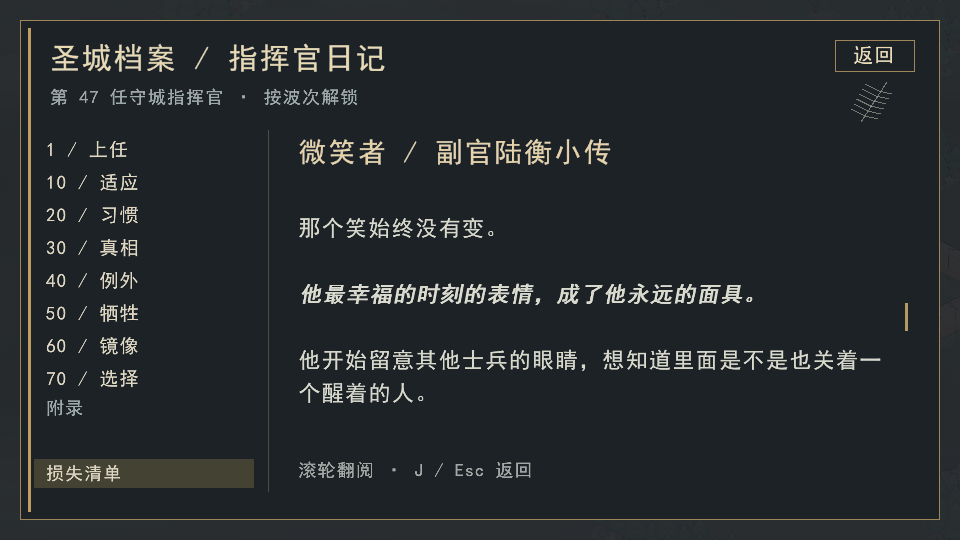
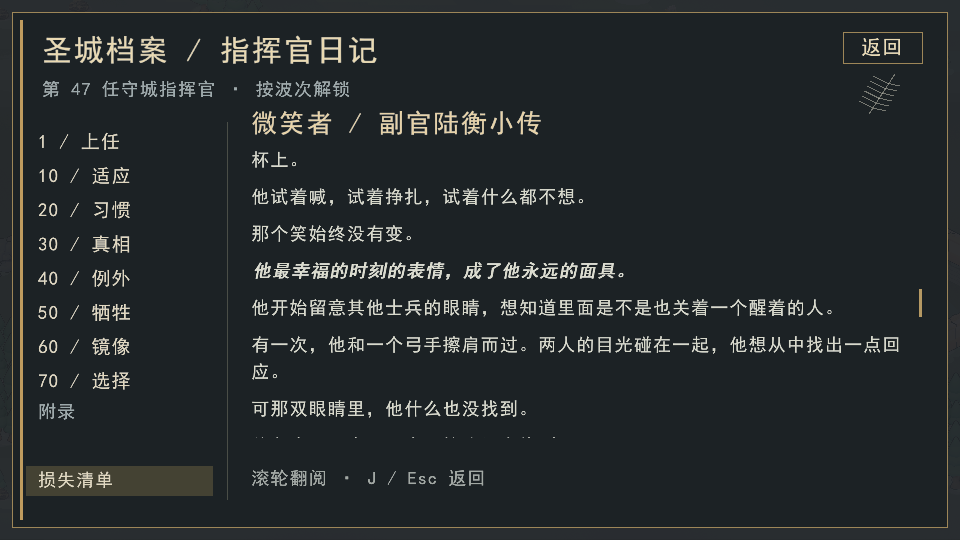
fix(chronicle): improve long-form reading and announce Easter eggs

diff --git a/render/src/main.cpp b/render/src/main.cpp
@@ -180,6 +180,7 @@ struct Options {
     int journal_appendix = 0;
     bool journal_feather_locked = false;
     bool journal_emphasis = false;
+    int appendix_notice = 0;
     bool journal_bottom = false;
     bool classic_visuals = false;
     bool mute = false;
@@ -199,6 +200,7 @@ void print_usage(const char* argv0) {
         "  --journal-ending <1..2> 日记截图预览结局；--journal-bottom 预览末尾\n"
         "  --journal-appendix <1..2> 附录截图；--journal-feather-locked 预览白羽线索\n"
         "  --journal-emphasis 定位微笑者强调段落（仅附录 2 截图）\n"
+        "  --appendix-notice <1..3> 彩蛋通知截图预览\n"
         "  --menu                停在主菜单（窗口模式下与默认相同；给截图用）\n"
         "  --screen <名>         先切到哪一屏再拍：main / help / paused / guide / developer。只给截图用\n"
         "  --map <路径>          地图文件。只给它（不给 --battle/--menu）= 地图查看器\n"
@@ -266,6 +268,10 @@ bool parse(const std::vector<std::string>& args, Options& out) {
             out.journal_feather_locked=true;
         } else if (a == "--journal-emphasis") {
             out.journal_emphasis=true;
+        } else if (a == "--appendix-notice") {
+            const std::string* v=next("--appendix-notice");
+            if(!v || (*v!="1" && *v!="2" && *v!="3")) return false;
+            out.appendix_notice=(*v)[0]-'0';
         } else if (a == "--journal-bottom") {
             out.journal_bottom=true;
         } else if (a == "--journal-ending") {
@@ -354,6 +360,7 @@ bool parse(const std::vector<std::string>& args, Options& out) {
     if(out.journal_appendix && (out.screenshot.empty() || out.journal_page>=0 || out.journal_ending)) return false;
     if(out.journal_feather_locked && out.journal_appendix!=1) return false;
     if(out.journal_emphasis && (out.journal_appendix!=2 || out.journal_bottom)) return false;
+    if(out.appendix_notice && out.screenshot.empty()) return false;
     if((out.journal_ending>0 || out.journal_bottom) && out.journal_page<0 && !out.journal_appendix) return false;
     if(out.journal_ending>0 && out.journal_page!=7) return false;
     // **这里不再判「哪个参数是必需的」。** 缺的路径由 `resolve_paths()` 用素材
@@ -1178,6 +1185,20 @@ int run_game(const Options& opt) {
     double order_until = 0.0;
     std::string notice;
     double notice_until = 0.0;
+    std::string appendix_notice;
+    double appendix_notice_until=0;
+    if(opt.appendix_notice) {
+        appendix_notice=game::kAppendixNotices[static_cast<std::size_t>(opt.appendix_notice-1)];
+        appendix_notice_until=GetTime()+10;
+    }
+    const auto draw_appendix_notice=[&](Vector2 viewport) {
+        if(appendix_notice.empty() || GetTime()>=appendix_notice_until) return;
+        const float width=font->measure(appendix_notice,20).x+32;
+        const float x=(viewport.x-width)/2,y=viewport.y-52;
+        DrawRectangleRec({x,y,width,36},Color{31,47,42,250});
+        DrawRectangleLinesEx({x,y,width,36},1,Color{181,153,99,255});
+        font->draw(appendix_notice,{x+16,y+7},20,Color{240,226,192,255});
+    };
     bool inspected_busy = false;
     // 侦查警报的跨帧状态（`draw_alert_banner`）：斥候回报/阵亡两条闪抓的是
     // **二元判定的边沿**（#139：`DemoBattle::scout_outcome()` 三态，逐波重置
@@ -1244,6 +1265,8 @@ int run_game(const Options& opt) {
     render::ChronicleView journal;
     game::JournalProgress progress=stored_journal;
     progress.highest_wave=stored_wave;
+    // Saving can observe a newly earned appendix before the next UI frame.
+    auto announced_appendices=progress.appendices;
     int& reached_wave=progress.highest_wave;
     journal.appendices=progress.appendices;
     if(opt.journal_page>=0) { journal.preview(opt.journal_page,opt.journal_ending,opt.journal_bottom); reached_wave=70; }
@@ -1741,6 +1764,7 @@ int run_game(const Options& opt) {
         RenderTexture2D rt = LoadRenderTexture(opt.width, opt.height);
         BeginTextureMode(rt);
         draw_frame(vp, /*has_cursor=*/false, rts::GridPos{});
+        draw_appendix_notice(vp);
         EndTextureMode();
 
         Image img = LoadImageFromTexture(rt.texture);
@@ -1840,10 +1864,12 @@ int run_game(const Options& opt) {
                 popup=Popup{};dragging=false;dragged_garrison.reset();
             }
             story_wave_seen=wave;
-            const auto previous_appendices=progress.appendices;
+            const auto previous_appendices=announced_appendices;
             progress.observe(wave,shell.battle()->earned_white_feather(),shell.chronicle().choice(),false);
             journal.appendices=progress.appendices;
-            if(previous_appendices!=progress.appendices) {notice="日记已更新 · 按 J 阅读";notice_until=GetTime()+8;}
+            const auto earned=game::appendix_notice(previous_appendices,progress.appendices);
+            if(!earned.empty()) {appendix_notice=earned;appendix_notice_until=GetTime()+10;}
+            announced_appendices=progress.appendices;
             const auto count=game::chronicle_unlocked(reached_wave);
             if(count>known_chapters) {notice="日记已更新 · 按 J 阅读";notice_until=GetTime()+6;known_chapters=count;}
         }
@@ -2188,6 +2214,7 @@ int run_game(const Options& opt) {
         }
         BeginDrawing();
         draw_frame(vp, !in_menu, cell);
+        draw_appendix_notice(vp);
         EndDrawing();
         if(GetTime()>=next_auto_save && shell.battle() && (shell.battle()->world().wave()!=last_save_wave ||
             shell.battle()->world().now()-last_save_tick>=1200 ||

diff --git a/render/src/chronicle_view.cpp b/render/src/chronicle_view.cpp
@@ -7,12 +7,15 @@
 #include <vector>
 namespace render {
 namespace {
+constexpr float kBodySize=18.0f;
+constexpr float kLineHeight=27.0f;
+constexpr float kParagraphGap=10.0f;
 struct Layout { Rectangle panel, close, body; float rail, row; };
 Layout layout(Vector2 vp) {
-    const float w=std::min(1220.0f,vp.x-40), h=std::min(760.0f,vp.y-40);
+    const float w=std::min(1400.0f,vp.x-24), h=vp.y-24;
     const float x=(vp.x-w)/2, y=(vp.y-h)/2;
-    const float rail=std::min(250.0f,w*0.27f);
-    return {{x,y,w,h},{x+w-105,y+20,80,32},{x+rail+30,y+165,w-rail-60,h-255},rail,
+    const float rail=std::clamp(w*0.23f,180.0f,220.0f);
+    return {{x,y,w,h},{x+w-105,y+20,80,32},{x+rail+24,y+132,w-rail-48,h-222},rail,
             std::min(48.0f,(h-140)/11)};
 }
 std::vector<std::string> wrap_plain(const FontSet& font, std::string_view text, float width) {
@@ -24,7 +27,7 @@ std::vector<std::string> wrap_plain(const FontSet& font, std::string_view text, 
         const int codepoint=GetCodepointNext(text.data()+i,&bytes);
         const auto n=static_cast<std::size_t>(std::max(1,bytes));
         const std::string glyph(text.substr(i,n));
-        if(!line.empty() && font.measure(line+glyph,22).x>width) {
+        if(!line.empty() && font.measure(line+glyph,kBodySize).x>width) {
             // 行首禁则：将前一个字和句末标点一起换行，避免单独一行的句号。
             const bool closing=codepoint==0x3002 || codepoint==0xff0c || codepoint==0xff1b ||
                 codepoint==0xff1a || codepoint==0xff1f || codepoint==0xff01 ||
@@ -61,8 +64,8 @@ void draw_emphasis(const FontSet& font,const std::string& text,Vector2 pos) {
     // Synthetic oblique keeps the existing CJK font coverage; a second pass adds weight.
     const float matrix[16]={1,0,0,0, -0.18f,1,0,0, 0,0,1,0, pos.x+4,pos.y,0,1};
     rlPushMatrix();rlMultMatrixf(matrix);
-    font.draw(text,{0,0},22,Color{216,217,203,255});
-    font.draw(text,{0.8f,0},22,Color{216,217,203,255});
+    font.draw(text,{0,0},kBodySize,Color{216,217,203,255});
+    font.draw(text,{0.7f,0},kBodySize,Color{216,217,203,255});
     rlPopMatrix();
 }
 }
@@ -85,6 +88,7 @@ std::vector<std::string_view> ChronicleView::strings() {
     };
     add(game::kChronicleGuard); add(game::kChronicleRelease);
     add(game::kChronicleLeap);add(game::kChronicleSmiler);
+    for(const auto text:game::kAppendixNotices) add(text);
     add("附录一根白羽损失清单一跃菲尼克斯小传微笑者副官陆衡小传尚无附录记录这根羽毛来自反复归来的白鸟。第60波的日记将说明它的来历。尚未获得这份记录。");
     for(const auto& e:game::kChronicle) {out.push_back(e.title);add(e.text);}
     return out;
@@ -157,26 +161,33 @@ void ChronicleView::draw(const FontSet& font,Vector2 vp,int reached_wave) {
     const std::string title=appendix_?(appendix_readable?(appendix_==1?"一跃 / 菲尼克斯小传":"微笑者 / 副官陆衡小传"):
         (appendix_==1 && appendices.white_feather?"一根白羽":"尚未解锁")):
         unlocked?(ending_==1?"继续守护 / 无尽模式":ending_==2?"放下武器 / 伪通关达成":std::string(entry.title)):"尚未解锁";
-    font.draw(title,{l.body.x,l.panel.y+118},28,Color{232,211,168,255});
+    font.draw(title,{l.body.x,l.panel.y+98},26,Color{232,211,168,255});
     std::string body=unlocked?std::string(ending_==1?game::kChronicleGuard:ending_==2?game::kChronicleRelease:entry.text):
         "第 "+std::to_string(entry.wave)+" 波解锁";
     if(appendix_) body=appendix_readable?std::string(appendix_==1?game::kChronicleLeap:game::kChronicleSmiler):
         appendix_==1 && appendices.white_feather?"这根羽毛来自反复归来的白鸟。第 60 波的日记将说明它的来历。":"尚未获得这份记录。";
     const auto lines=wrap(font,body,l.body.width-20);
-    max_scroll_=std::max(0.0f,static_cast<float>(lines.size())*33-l.body.height);
+    std::vector<float> offsets;
+    offsets.reserve(lines.size());
+    float content_height=0;
+    for(const auto& line:lines) {
+        offsets.push_back(content_height);
+        content_height+=line.text.empty()?kParagraphGap:kLineHeight;
+    }
+    max_scroll_=std::max(0.0f,content_height-l.body.height);
     if(preview_emphasis_) {
         for(std::size_t i=0;i<lines.size();++i) if(lines[i].emphasis) {
-            scroll_=std::max(0.0f,static_cast<float>(i)*33-l.body.height*0.4f);break;
+            scroll_=std::max(0.0f,offsets[i]-l.body.height*0.4f);break;
         }
         preview_emphasis_=false;
     }
     scroll_=std::clamp(scroll_,0.0f,max_scroll_);
     BeginScissorMode(static_cast<int>(l.body.x),static_cast<int>(l.body.y),static_cast<int>(l.body.width),static_cast<int>(l.body.height));
     for(std::size_t i=0;i<lines.size();++i) {
-        const Vector2 pos{l.body.x,l.body.y+static_cast<float>(i)*33-scroll_};
-        if(pos.y+33<l.body.y || pos.y>l.body.y+l.body.height) continue;
+        const Vector2 pos{l.body.x,l.body.y+offsets[i]-scroll_};
+        if(pos.y+kLineHeight<l.body.y || pos.y>l.body.y+l.body.height) continue;
         if(lines[i].emphasis) draw_emphasis(font,lines[i].text,pos);
-        else font.draw(lines[i].text,{pos.x,pos.y},22,Color{216,217,203,255});
+        else font.draw(lines[i].text,{pos.x,pos.y},kBodySize,Color{216,217,203,255});
     }
     EndScissorMode();
     if(max_scroll_>0) {

diff --git a/game/include/game/chronicle.hpp b/game/include/game/chronicle.hpp
@@ -522,6 +522,16 @@ struct ChronicleAppendix {
     }
     bool operator==(const ChronicleAppendix&) const = default;
 };
+inline constexpr std::array<std::string_view,3> kAppendixNotices{
+    "触发彩蛋：一根白羽 · 按 J 查看",
+    "触发彩蛋：损失清单 · 按 J 查看",
+    "触发彩蛋：白羽与损失清单 · 按 J 查看"
+};
+constexpr std::string_view appendix_notice(ChronicleAppendix previous,ChronicleAppendix current) noexcept {
+    const bool feather=current.white_feather && !previous.white_feather;
+    const bool loss=current.loss_list && !previous.loss_list;
+    return feather && loss?kAppendixNotices[2]:feather?kAppendixNotices[0]:loss?kAppendixNotices[1]:std::string_view{};
+}
 struct JournalProgress {
     int highest_wave=1;
     ChronicleAppendix appendices;

diff --git a/tests/save_game_test.cpp b/tests/save_game_test.cpp
@@ -211,6 +211,11 @@ TEST_CASE("存档 v4 拒绝 v3 并保留独立旧版备份", "[save]") {
 }
 
 TEST_CASE("附录读权、分支选择和开发者隔离", "[save]") {
+    REQUIRE(game::appendix_notice({},{true,false})==game::kAppendixNotices[0]);
+    REQUIRE(game::appendix_notice({true,false},{true,true})==game::kAppendixNotices[1]);
+    REQUIRE(game::appendix_notice({},{true,true})==game::kAppendixNotices[2]);
+    REQUIRE(game::appendix_notice({true,true},{true,true}).empty());
+    REQUIRE(game::appendix_notice({true,true},{}).empty());
     game::JournalProgress progress;
     progress.observe(59,true,game::ChronicleChoice::None,false);
     REQUIRE(progress.appendices.white_feather);

diff --git a/docs/holy-city/README.md b/docs/holy-city/README.md
@@ -56,6 +56,10 @@
 
 两项永久读权合并写入日记 v2，只增不减；白羽在本局的获得标记也进入 v4 快照，避免获得后击落、退出再读档丢失。早期 v4 缺少该标记时按未获得读取；开发者模式和截图预览不解锁或写入正式进度。
 
+首次获得附录会显示 10 秒「触发彩蛋：一根白羽／损失清单 · 按 J 查看」。同时获得时合并通知；已解锁记录不重复提示。通知在日记打开时也可见，不被章节或侦查消息覆盖；自动保存先记录奖励也不会吞掉下一帧通知。截图可加 `--appendix-notice 1/2/3`，仅预览，不写入进度。
+
+长文阅读框随窗口高度扩展，最大宽度 1400；正文 18 像素、行距 27、段间距 10，缩窄目录并减少上下留白。强调句换行后仍保留加粗斜体；滚轮和 Page Up / Page Down 均可翻阅。
+
 正文来自两篇 Markdown 文件，构建时生成游戏文本，文档与游戏不再维护两份副本。《微笑者》采用逐段审阅后的定稿，保留获选、妻女告别、身体失控、历任指挥官以及两条结局。「他最幸福的时刻的表情，成了他永远的面具。」使用加粗斜体，与下段之间保留正常段落间距，不插入分割线。游戏用现有中文字库合成斜体与加粗，换行后仍保留强调样式。
 
 [Markdown 定稿](微笑者_副官陆衡小传.md) · [HTML 阅读版](微笑者_副官陆衡小传.html)。运行 `python tools/export_smiler.py` 从 Markdown 更新独立 HTML；`--check` 检查两份是否同步，也已注册为回归测试。HTML 无外部字体、脚本或联网依赖，支持窄屏阅读与打印。
@@ -65,3 +69,9 @@
 本次定稿通过 Windows/MSVC Release 全量 161 项测试；另核对 Markdown、HTML 和生成的游戏文字逐段一致。实机截图检查强调句、两篇首尾和锁定提示，额外在 640×540 下确认强调句换行后样式保留；HTML 检查桌面与 390 像素窄屏。解锁边界通过夹具测试，未自然游玩到第 90 波，也未在本次运行 Linux 构建。
 
 ![微笑者游戏内加粗斜体呈现](smiler-emphasis.png)
+
+后续阅读排版与彩蛋通知调整通过全部 108 项渲染回归；通知状态、存档等定向检查 17/17 通过。正文内容保持定稿不变。
+
+![扩大后的长文阅读区](smiler-reading.png)
+
+![首次获得彩蛋时的明确通知](appendix-notice.png)
